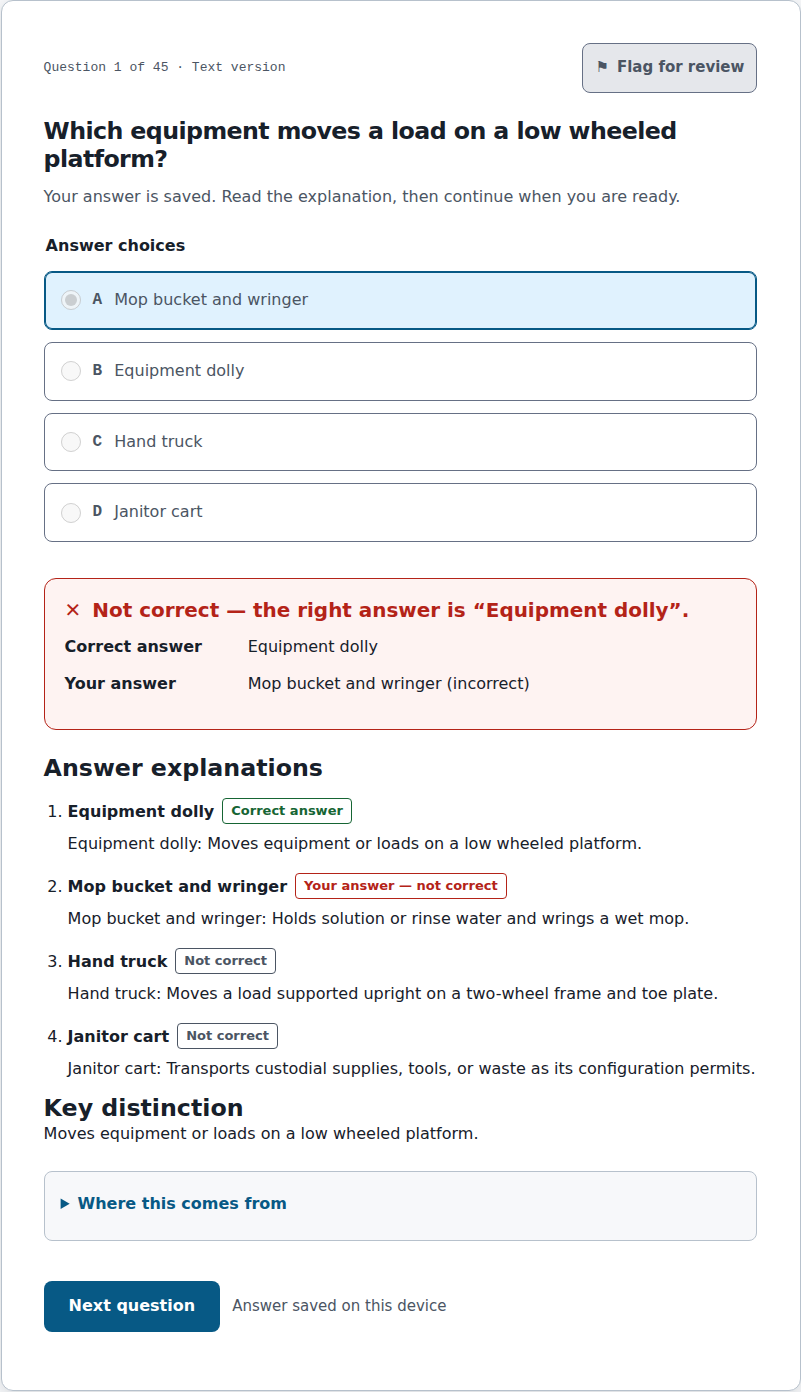
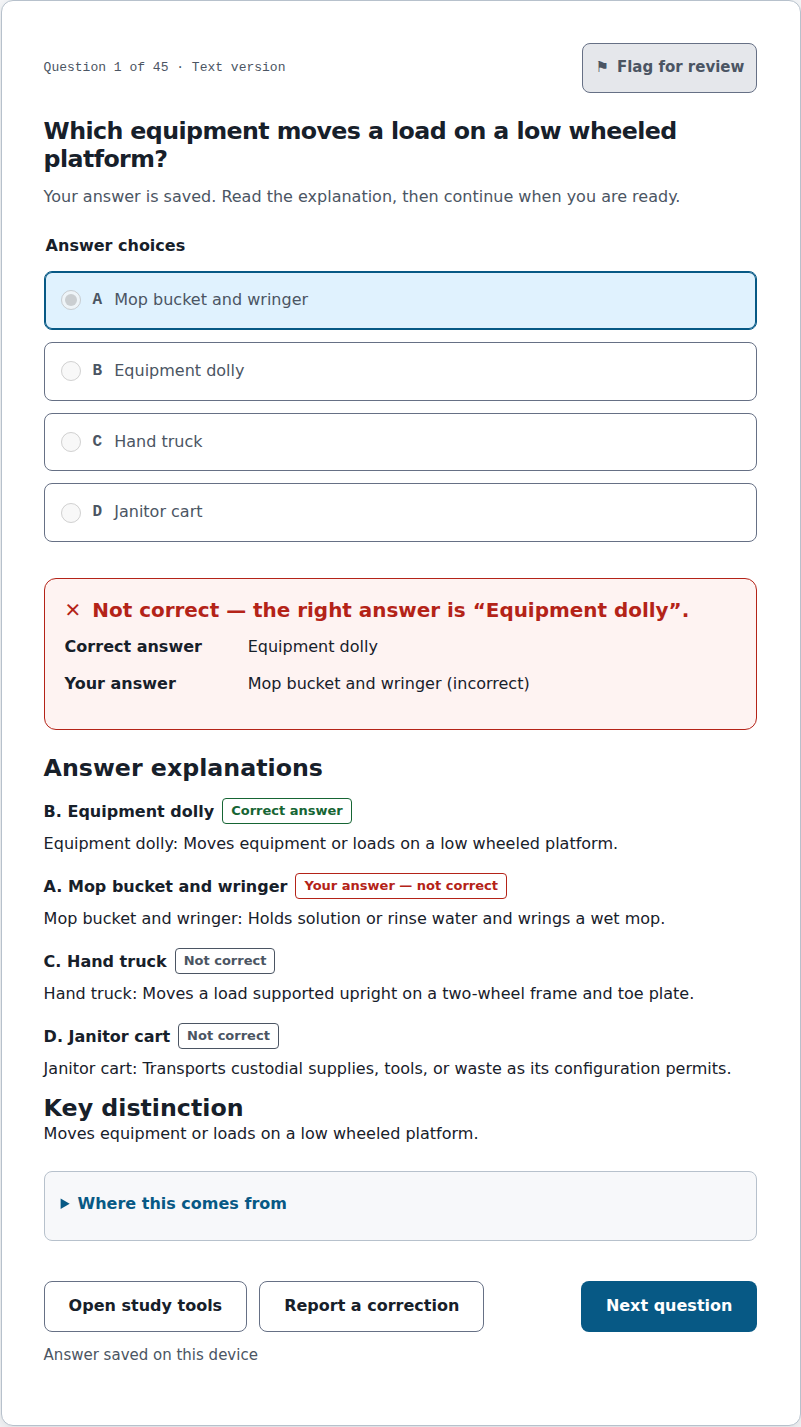
Label feedback with original choices and expose study support actions

diff --git a/apps/site/browser-tests/question-illustration.pw.ts b/apps/site/browser-tests/question-illustration.pw.ts
@@ -36,11 +36,22 @@ test("released illustrated question saves, reloads, and opens from Review", asyn
   const image = page.locator(".question-illustration img")
   await expect(image).toBeVisible()
   await expect.poll(() => image.evaluate(node => (node as HTMLImageElement).naturalWidth)).toBeGreaterThan(0)
+  const actions = page.locator(".player-action-bar")
+  await expect(actions.getByRole("link", { name: "Open study tools", exact: true })).toHaveCount(0)
+  await expect(actions.getByRole("link", { name: "Report a correction", exact: true })).toHaveCount(0)
   await page.getByRole("button", { name: "Flag for review", exact: true }).click()
   await page.getByRole("radio", { name: "Adjustable wrench", exact: true }).check()
   await page.getByRole("button", { name: "Save answer", exact: true }).click()
   await expect(page.getByRole("heading", { name: /Correct.*Adjustable wrench/ })).toBeVisible()
   await expect(image).toBeVisible()
+  await expect(page.locator(".feedback-rationales h4")).toHaveText([
+    "C. Adjustable wrench", "A. Pipe wrench", "B. Slip-joint pliers", "D. Tongue-and-groove pliers"
+  ])
+  for (const [name, href] of [["Open study tools", "/atlas/"], ["Report a correction", "/report/"]]) {
+    const link = actions.getByRole("link", { name: name!, exact: true })
+    await expect(link).toHaveAttribute("href", href!)
+    expect((await page.request.get(href!)).ok()).toBe(true)
+  }
   await page.reload()
   await expect(page.getByRole("heading", { name: /Correct.*Adjustable wrench/ })).toBeVisible()
   await expect(image).toBeVisible()

diff --git a/apps/site/src/question-player/react/question-form.tsx b/apps/site/src/question-player/react/question-form.tsx
@@ -105,9 +105,13 @@ export const QuestionControls = ({ nextHref }: { readonly nextHref?: string }) =
     ) : null}
     <div className="question-controls player-action-bar">
       {state.tag === "revealed" ? (
-        <a className="button button-primary" data-session-history={nextHref === undefined ? undefined : "replace"} href={nextHref ?? "/practice/"}>
+        <>
+        <a className="button button-secondary" href="/atlas/">Open study tools</a>
+        <a className="button button-secondary" href="/report/">Report a correction</a>
+        <a className="button button-primary player-continue" data-session-history={nextHref === undefined ? undefined : "replace"} href={nextHref ?? "/practice/"}>
           {nextHref === undefined ? "Return to Practice" : "Next question"}
         </a>
+        </>
       ) : (
         <button
           className="button button-primary"

diff --git a/apps/site/src/question-player/react/feedback.tsx b/apps/site/src/question-player/react/feedback.tsx
@@ -89,7 +89,7 @@ export const QuestionFeedback = () => {
             return (
               <li key={optionId}>
                 <div className="rationale-heading-row">
-                  <h4>{optionLabel(optionId)}</h4>
+                  <h4>{String.fromCharCode(65 + question.options.findIndex(option => option.id === optionId))}. {optionLabel(optionId)}</h4>
                   <span className="rationale-verdict" data-verdict={optionId === state.payload.correctOptionId ? "correct" : optionId === state.selectedOptionId ? "incorrect" : "other"}>
                     {optionId === state.payload.correctOptionId
                       ? "Correct answer"

diff --git a/apps/site/src/design-system.css b/apps/site/src/design-system.css
@@ -1195,3 +1195,12 @@
   .question-image-description summary { padding-block: 0.625rem; min-block-size: 2.75rem; color: var(--color-action); cursor: pointer; }
   .question-image-description p { margin-block: 0.5rem 0; }
 }
+
+@layer overrides {
+  .player-feedback .rationale-list { list-style: none; padding-inline-start: 0; }
+  .player-action-bar .player-continue { margin-inline-start: auto; }
+  .player-action-bar:has(.player-continue) .player-action-note { flex-basis: 100%; }
+  @media (max-width: 47.99rem) {
+    .player-action-bar .player-continue { margin-inline-start: 0; }
+  }
+}

diff --git a/design-review/2026-09-07/IMPLEMENTATION-STATUS.md b/design-review/2026-09-07/IMPLEMENTATION-STATUS.md
@@ -10,7 +10,7 @@ The active task is the complete handoff in `/mnt/models/dev/nycustodianexam/IMPL
 | Simulation setup | SETUP-ATLAS-REVIEW.md, effective lengths/timing/format; no exam prerequisite | Final integrated capture/checks |
 | Practice/Hazard builder | PRACTICE-BUILDER-REVIEW.md and HAZARD-BUILDER-REVIEW.md: effective builders, custom navigation and exact saved-history receipts | Hazard page composition updated with desktop/compact/no-JS evidence; Practice composition/direct-link focus updated with desktop/compact captures and three-browser checks; Practice/Hazard summaries reconciled with desktop/compact evidence and 15 targeted browser passes; final integrated comparison remains; CROSS-BROWSER-WORKFLOWS.md records 27 three-browser builder/Review passes, including real offline save/feedback; WebKit emulation issue isolated with a minimal reproduction; custom import passes in Chromium |
 | Atlas catalog | Nine-family desktop/compact controls, all 65 images, eligibility/failure states | ATLAS-RECORD-REVIEW.md: sampled record/family reflow, readable missing-image fallback, all 65 records audited and reference-only capture; matching 990px catalog comparison corrected five-column sizing/typography, with 12 three-browser checks and final-audit captures; closing provenance note and visible-failure recovery implemented with current release metadata, 15 browser checks, and 12 refreshed captures; platform typography differences and sampled record-view limits documented |
-| Question player | QUESTION-PLAYER-REVIEW.md: text card/action reconciliation, real-state captures, 14 browser checks | Illustrated binding, compiler, shared player and retained print image support implemented; q091 released in pack v4 with actual save/reload/Review checks and four captures; historical question/hazard import and activity restoration verified; no-JavaScript responsive illustration verified; 11 actual illustrated PDF pages inspected; illustrated estimates now match four captured PDF samples; origin-disconnected illustrated practice and historical custom feedback tested; real installed version-3 → version-4 upgrade passes in all three browsers with saved-question restoration and pinned simulation resumption; retry focus loss reproduced and corrected with 15 browser checks and eight captures; image zoom/reset and neutral description disclosure implemented with 21 browser checks and 12 captures; authored linked nonvisual variant and final answered-state comparison remain |
+| Question player | QUESTION-PLAYER-REVIEW.md: text card/action reconciliation, real-state captures, 14 browser checks | Illustrated binding, compiler, shared player and retained print image support implemented; q091 released in pack v4 with actual save/reload/Review checks and four captures; historical question/hazard import and activity restoration verified; no-JavaScript responsive illustration verified; 11 actual illustrated PDF pages inspected; illustrated estimates now match four captured PDF samples; origin-disconnected illustrated practice and historical custom feedback tested; real installed version-3 → version-4 upgrade passes in all three browsers with saved-question restoration and pinned simulation resumption; retry focus loss reproduced and corrected with 15 browser checks and eight captures; image zoom/reset and neutral description disclosure implemented with 21 browser checks and 12 captures; answered-state comparison added original option letters and support actions; 40 question-player browser checks pass with two intended BFCache skips; authored linked nonvisual variant remains |
 | Hazard player | HAZARD-PLAYER-REVIEW.md: responsive workspace, header/save panel, nine real-state captures and nine regression tests | Visual/keyboard layout, integrated retained-image overlay, correction/safe groups and compact recovery captured; final cross-browser and matching-width visual audit remain |
 | Simulation player/results | SIMULATION-NAVIGATOR-REVIEW.md and SIMULATION-FLOW-REVIEW.md: navigator, player/timer and question-result captures at 1008/384; restore/focus checks; 24 three-browser regressions pass | Visual/keyboard hazard player/results now captured at both widths; no-concerns target corrected and six three-browser hazard regressions pass; final integrated audit and separate Static Assets check remain |
 | Print configuration | Ten products and effective controls; reviewed document scope | PRINT-OUTPUT-REVIEW.md: actual Letter/A4 question PDFs and searchable-text fix; preview rows/actions and warning/error panels reconciled; twelve ready/recovery captures and 27 three-browser print checks pass; fresh Letter/A4 PDFs retain searchable text; all 45 extended large-print/tool PDF pages audited and grid-fragmentation overlap fixed; current PDFs and per-page verification retained; 42 hazard worksheet/answer/text PDF pages audited with pagination fixes; large-print heading/URL sizing fixed with fresh PDF evidence; source-inclusive hazard estimates now finalize from assembled content; final other-product PDF refresh remains |

diff --git a/design-review/2026-09-07/QUESTION-PLAYER-REVIEW.md b/design-review/2026-09-07/QUESTION-PLAYER-REVIEW.md
@@ -452,3 +452,43 @@ image, keyboard retry, and answered states at 1053/384. Visually inspected the
 The reference fixture and released q091 contain different tools/options; the
 actual reviewed question remains unchanged. A genuine linked nonvisual variant
 and final answered-state comparison remain open.
+
+## Answered-player comparison and actions — September 9
+
+Compared the actual illustrated answered card with reference 27, then refreshed
+both illustrated and text-player captures. The maintained FEATURE_SPEC.md
+requires the correct rationale first, followed by the learner's incorrect
+choice and other distractors. That order remains authoritative over the
+prototype's A–D order. Each rationale now carries its original option letter;
+the unrelated numeric list markers are suppressed. This makes the association
+clear without reordering reviewed explanations.
+
+Saved feedback now exposes Open study tools and Report a correction before the
+continuation action. These are ordinary /atlas/ and /report/ links, available
+only after reveal. Continuation retains its primary emphasis and existing
+replace-history semantics; the final item returns to Practice. Compact actions
+stack, and the save-status note occupies its own row. The correction link opens
+the existing form; it does not automatically submit or prefill a report.
+
+Visually inspected compact illustrated and desktop text answered captures. The
+reference's truncated image, fixture content, visible live-region debug label,
+and post-save mutable flag control are not copied. The image is whole at reset,
+the live region stays visually hidden, and committed review intent remains
+immutable under the existing save contract. Authored scope/distinction/source
+content remains present even where the shorter prototype omits it. Sources
+remain in an expandable evidence section with retained excerpts.
+
+Validation: full build/artifact verification, site/browser typechecks, and six
+feedback/illustration view tests pass. The combined question-player and
+illustration browser run passes 40 checks; two skips are the existing
+Chromium-only BFCache regression on Firefox/WebKit. New assertions verify the
+original rationale letters and post-save support links, including successful
+local destinations and absence of those actions before saving. All refreshed
+illustrated/text captures complete without page errors.
+
+The authored nonvisual requirement remains open. Question artifacts currently
+have an optional illustration but no authored-equivalent prompt/fact linkage;
+nonvisual zoned equivalents exist for hazard scenes only. A truthful linked
+question variant requires reviewed content, model/compiler support, compatible
+routes and persistence behavior, and verification—not relabeling the neutral
+description as another scored question.
